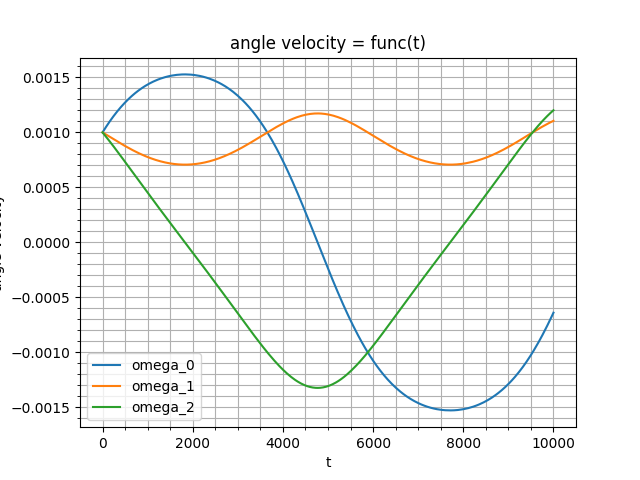
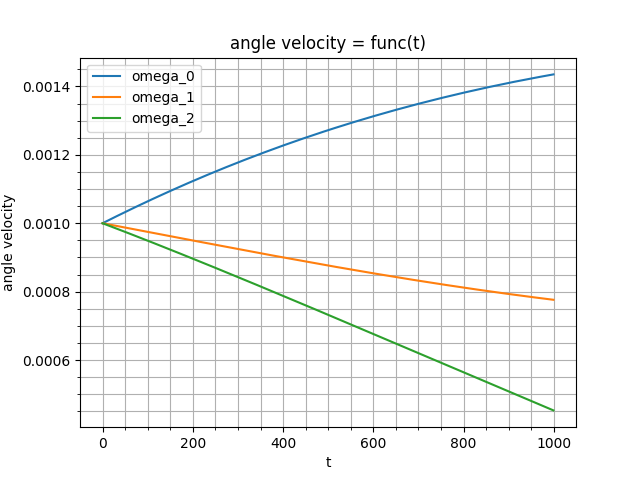
3c in process

diff --git a/3с/modelling.py b/3с/modelling.py
@@ -47,6 +47,7 @@ omegaOrbBF = [quatBF[i].IF2BF(omegaOrbIF[i]) for i in range(len(t))]
 omegaRelBF = omegaBF - omegaOrbBF
 # модуль орбитальной угловой скорости
 omega0 = np.array([np.sqrt(mu / np.linalg.norm(rVecIF[i])**3) for i in range(len(t))])
+
 # орты ССК
 E1 = np.array([1, 0, 0], dtype=float)
 E2 = np.array([0, 1, 0], dtype=float)
@@ -58,9 +59,8 @@ for i in range(len(t)):
 
     JacobiIntegral[i] = (
             0.5 * np.dot(omegaRelBF[i], Jtense.dot(omegaRelBF[i])) +
-            omega0[i]**2 * (1.5 * np.dot(E3, Jtense.dot(E3)) - 0.5 * np.dot(Jtense.dot(E2), E2))
+            omega0[i]**2 * (1.5 * np.dot(E3, Jtense.dot(E3))) - 0.5 * np.dot(Jtense.dot(omegaOrbBF[i]), omegaOrbBF[i])
                         )
-
 
 kineticMoment = np.array([(np.cross(rVecIF[i], vVecIF[i]) + Jtense.dot(omegaBF[i]))  for i in range(len(t))])
 for i in range(3):
@@ -73,7 +73,7 @@ plt.grid(which="both", axis='both')
 plt.savefig('kineticMoment3c')
 plt.close()
 
-plt.plot(t, np.round(JacobiIntegral, 8))
+plt.plot(t, JacobiIntegral)
 plt.title('JacobiIntegral = func(t)')
 plt.ylabel('JacobiIntegral')
 plt.xlabel('t')

diff --git a/3с/init3c.py b/3с/init3c.py
@@ -17,7 +17,7 @@ def IFtoOF(rIF, vIF, vecIF):
 
 # параметры моделирования
 dt = float(1.0) # шаг моделирования РК4
-tFinal = 10000.0 # время моделирования
+tFinal = 1000.0 # время моделирования
 t = np.arange(0.0, tFinal, dt) # массив эпох
 
 # орбитальные элементы для задания начальных данных r, v
